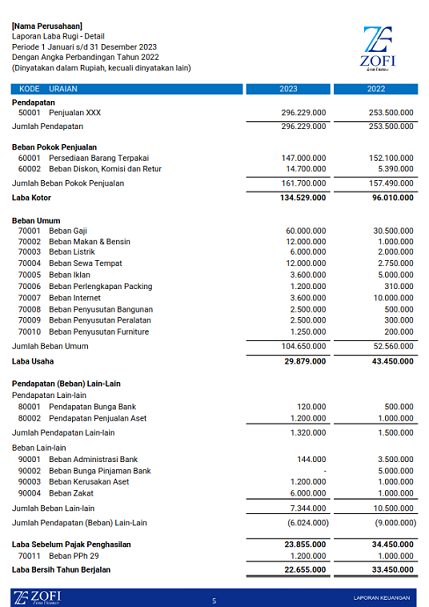
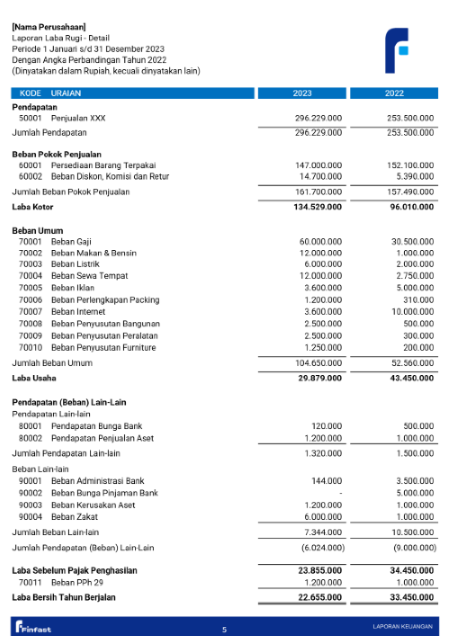
update UI

diff --git a/src/Components/Product/laporan-keuangan/sectionTwoo-LK.js b/src/Components/Product/laporan-keuangan/sectionTwoo-LK.js
@@ -40,7 +40,7 @@ function SectionTwooLK() {
                             <p>Kekayaan dan stabilitas keuangan bisnis Anda melalui laporan yang merinci dengan jelas aset, kewajiban, dan nilai bersih perusahaan.</p>
                         </div>
                         <div className="content-img-sectionTwooLK">
-                            <a target="_blank" onClick={(e) => {e.preventDefault(); handleImageClick(3, 3)}}>
+                            <a target="_blank" onClick={(e) => {e.preventDefault(); handleImageClick(0, 0)}}>
                                 <img src={require("../../../images/1_Neraca_001.png")} alt="Highlight Laporan Keuangan"/>
                                 <div className="buttons-open-img-sectionTwoLK">
                                     <a>
@@ -61,7 +61,7 @@ function SectionTwooLK() {
                             <p>Kekayaan dan stabilitas keuangan bisnis Anda melalui laporan yang merinci dengan jelas aset, kewajiban, dan nilai bersih perusahaan.</p>
                         </div>
                         <div className="content-img-sectionTwooLK">
-                            <a target="_blank" onClick={(e) => {e.preventDefault(); handleImageClick(4, 4)}}>
+                            <a target="_blank" onClick={(e) => {e.preventDefault(); handleImageClick(1, 1)}}>
                                 <img src={require("../../../images/2_Neraca Detail_001.png")} alt="Highlight Laporan Keuangan"/>
                                 <div className="buttons-open-img-sectionTwoLK">
                                     <a>
@@ -82,7 +82,7 @@ function SectionTwooLK() {
                             <p>Kinerja keuangan bisnis Anda dengan detail pendapatan, biaya, dan laba bersih dalam satu tampilan yang ringkas.</p>
                         </div>
                         <div className="content-img-sectionTwooLK">
-                            <a href="path_to_image" target="_blank" onClick={(e) => {e.preventDefault(); handleImageClick(0, 0)}}>
+                            <a href="path_to_image" target="_blank" onClick={(e) => {e.preventDefault(); handleImageClick(2, 2)}}>
                                 <img src={require("../../../images/3_LabaRugi_001.png")} alt="Highlight Laporan Keuangan"/>
                                 <div className="buttons-open-img-sectionTwoLK">
                                     <a>
@@ -103,7 +103,7 @@ function SectionTwooLK() {
                             <p>Kinerja keuangan bisnis Anda dengan detail pendapatan, biaya, dan laba bersih dalam satu tampilan yang ringkas.</p>
                         </div>
                         <div className="content-img-sectionTwooLK">
-                            <a href="path_to_image" target="_blank" onClick={(e) => {e.preventDefault(); handleImageClick(1, 1)}}>
+                            <a href="path_to_image" target="_blank" onClick={(e) => {e.preventDefault(); handleImageClick(3, 3)}}>
                                 <img src={require("../../../images/4_LabaRugi Detail_001.png")} alt="Highlight Laporan Keuangan"/>
                                 <div className="buttons-open-img-sectionTwoLK">
                                     <a>
@@ -124,7 +124,7 @@ function SectionTwooLK() {
                             <p>Kinerja keuangan bisnis Anda dengan detail pendapatan, biaya, dan laba bersih dalam satu tampilan yang ringkas.</p>
                         </div>
                         <div className="content-img-sectionTwooLK">
-                            <a href="path_to_image" target="_blank" onClick={(e) => {e.preventDefault(); handleImageClick(2, 2)}}>
+                            <a href="path_to_image" target="_blank" onClick={(e) => {e.preventDefault(); handleImageClick(4, 4)}}>
                                 <img src={require("../../../images/5. Laba Rugi Bulanan_001.png")} alt="Highlight Laporan Keuangan"/>
                                 <div className="buttons-open-img-sectionTwoLK">
                                     <a>

diff --git a/src/App.css b/src/App.css
@@ -9,7 +9,7 @@
 .navbar-scrolled {
   font-family: Arial, sans-serif;
   position: fixed;
-  z-index: 1000;
+  z-index: 100;
   color: white;
   background-color: #ffffff;
   width: 100%;
@@ -119,6 +119,14 @@
   cursor: pointer;
 }
 
+@media (max-width: 480px) {
+  .logo {
+    content: url('./images/Logo FF 2.png'); /* Ganti dengan gambar kecil */
+    width: 70x; /* Atur ukuran gambar yang lebih kecil */
+    height: 70px;
+  }
+}
+
 @media (max-width: 1000px) {
   .navbar-menu {
     display: none;
@@ -170,9 +178,9 @@
 }
 
 @media (max-width: 700px) {
-  .navbar-logo img {
-    height: 22.5px;
-  }
+  /* .navbar-logo img {
+    height: 36px;
+  } */
 }
 
 @media (max-width: 520px) {
@@ -462,13 +470,13 @@
 
 @media (max-width: 550px) {
   .content-sectionOne {
-    margin-top: -3.5rem;
+    margin-top: -6rem;
   }
 }
 
 @media (max-width: 475px) {
   .content-sectionOne {
-    margin-top: -5rem;
+    margin-top: -7.5rem;
   }
 }
 
@@ -479,7 +487,7 @@
     margin-top: 0;
     padding: 0 10px;
     width: 99%;
-    margin-top: -4rem;
+    margin-top: -7rem;
   }
 
   .content-sectionOne p {
@@ -942,9 +950,6 @@ footer {
 
 .footer-section img {
   z-index: 1000px;
-  box-shadow: 0 0px 10px #f4f4f4;
-  border-radius: 5px;
-  padding: 5px;
 }
 
 .footer {

diff --git a/src/Components/Product/laporan-keuangan/ImageOverlay.js b/src/Components/Product/laporan-keuangan/ImageOverlay.js
@@ -1,10 +1,10 @@
 import React, { useState } from 'react';
 import '../../../App.css';
-import LK1 from "../../../images/3_LabaRugi_001.png";
-import LK2 from "../../../images/4_LabaRugi Detail_001.png";
-import LK3 from "../../../images/5. Laba Rugi Bulanan_001.png";
-import LK4 from "../../../images/1_Neraca_001.png";
-import LK5 from "../../../images/2_Neraca Detail_001.png";
+import LK1 from "../../../images/1_Neraca_001.png";
+import LK2 from "../../../images/2_Neraca Detail_001.png";
+import LK3 from "../../../images/3_LabaRugi_001.png";
+import LK4 from "../../../images/4_LabaRugi Detail_001.png";
+import LK5 from "../../../images/5. Laba Rugi Bulanan_001.png";
 import LK6 from "../../../images/6. Arus Kas_001.png"
 import AB1 from "../../../images/7. Analisa Bagi Hasil_001.png";
 import AB2 from "../../../images/8. Analisa Target Penjualan_001.png";
@@ -42,7 +42,7 @@ function ImageOverlay({ src, initialIndex, onClose }) {
   };
 
   return (
-    <div className="overlay">
+    <div className="overlay" style={{zIndex: "9999"}}>
       <span className="close" onClick={onClose}>&times;</span>
       <div className="container-main-overlay">
         <div className="overlay-content">

diff --git a/src/Components/Navbar.js b/src/Components/Navbar.js
@@ -71,7 +71,7 @@ const Navbar = ({ sectionTwoRef }) => {
             <nav className={isScrolled ? 'navbar-scrolled' : 'navbar'}>
                 <div className="fiil-navbar">
                     <div className="navbar-logo">
-                        <a style={{ color: "#1c5d99", fontSize: "2rem", width: "100%"}} onClick={() => HandleNavigate('/')}><img src={require("../images/Logo FF 3.png")}/></a>
+                        <a className={isScrolled? '' : 'logo'} style={{ color: "#1c5d99", fontSize: "2rem", width: "100%"}} onClick={() => HandleNavigate('/')}><img src={require("../images/Logo FF 3.png")}/></a>
                     </div>
                     <div className={ isScrolled ? `navbar-menu ${isMenuOpen ? 'open' : ''}` : `navbar-menu ${isMenuOpen ? 'notScrolled': ''}`}>
                         <ul>

diff --git a/src/Components/footer.js b/src/Components/footer.js
@@ -14,7 +14,7 @@ function Footer() {
             <div className="footer">
                 <div className="footer-container">
                     <div className="footer-section logo-section">
-                        <img src={require('../images/Logo FF 2.png')} alt="Haggie Logo" className="logo" style={{ marginBottom: '2rem'}} />
+                        <img src={require('../images/Logo FF 2.1.png')} alt="Haggie Logo" className="logo" style={{ marginBottom: '2rem'}} />
                         {/* <p style={{ fontSize: '16px'}}>Pusing bikin laporan keuangan bisnis? Zona Finance aja!</p> */}
                     </div>
                     <div className="footer-section">

diff --git a/public/index.html b/public/index.html
@@ -2,7 +2,7 @@
 <html lang="en">
   <head>
     <meta charset="UTF-8" />
-    <link rel="icon" href="%PUBLIC_URL%/Logo_ZF.png" />
+    <link rel="icon" href="%PUBLIC_URL%/Logo FF 2.png" />
     <meta name="viewport" content="width=device-width, initial-scale=1.0" />
     <title>Finfast</title>
   </head>
